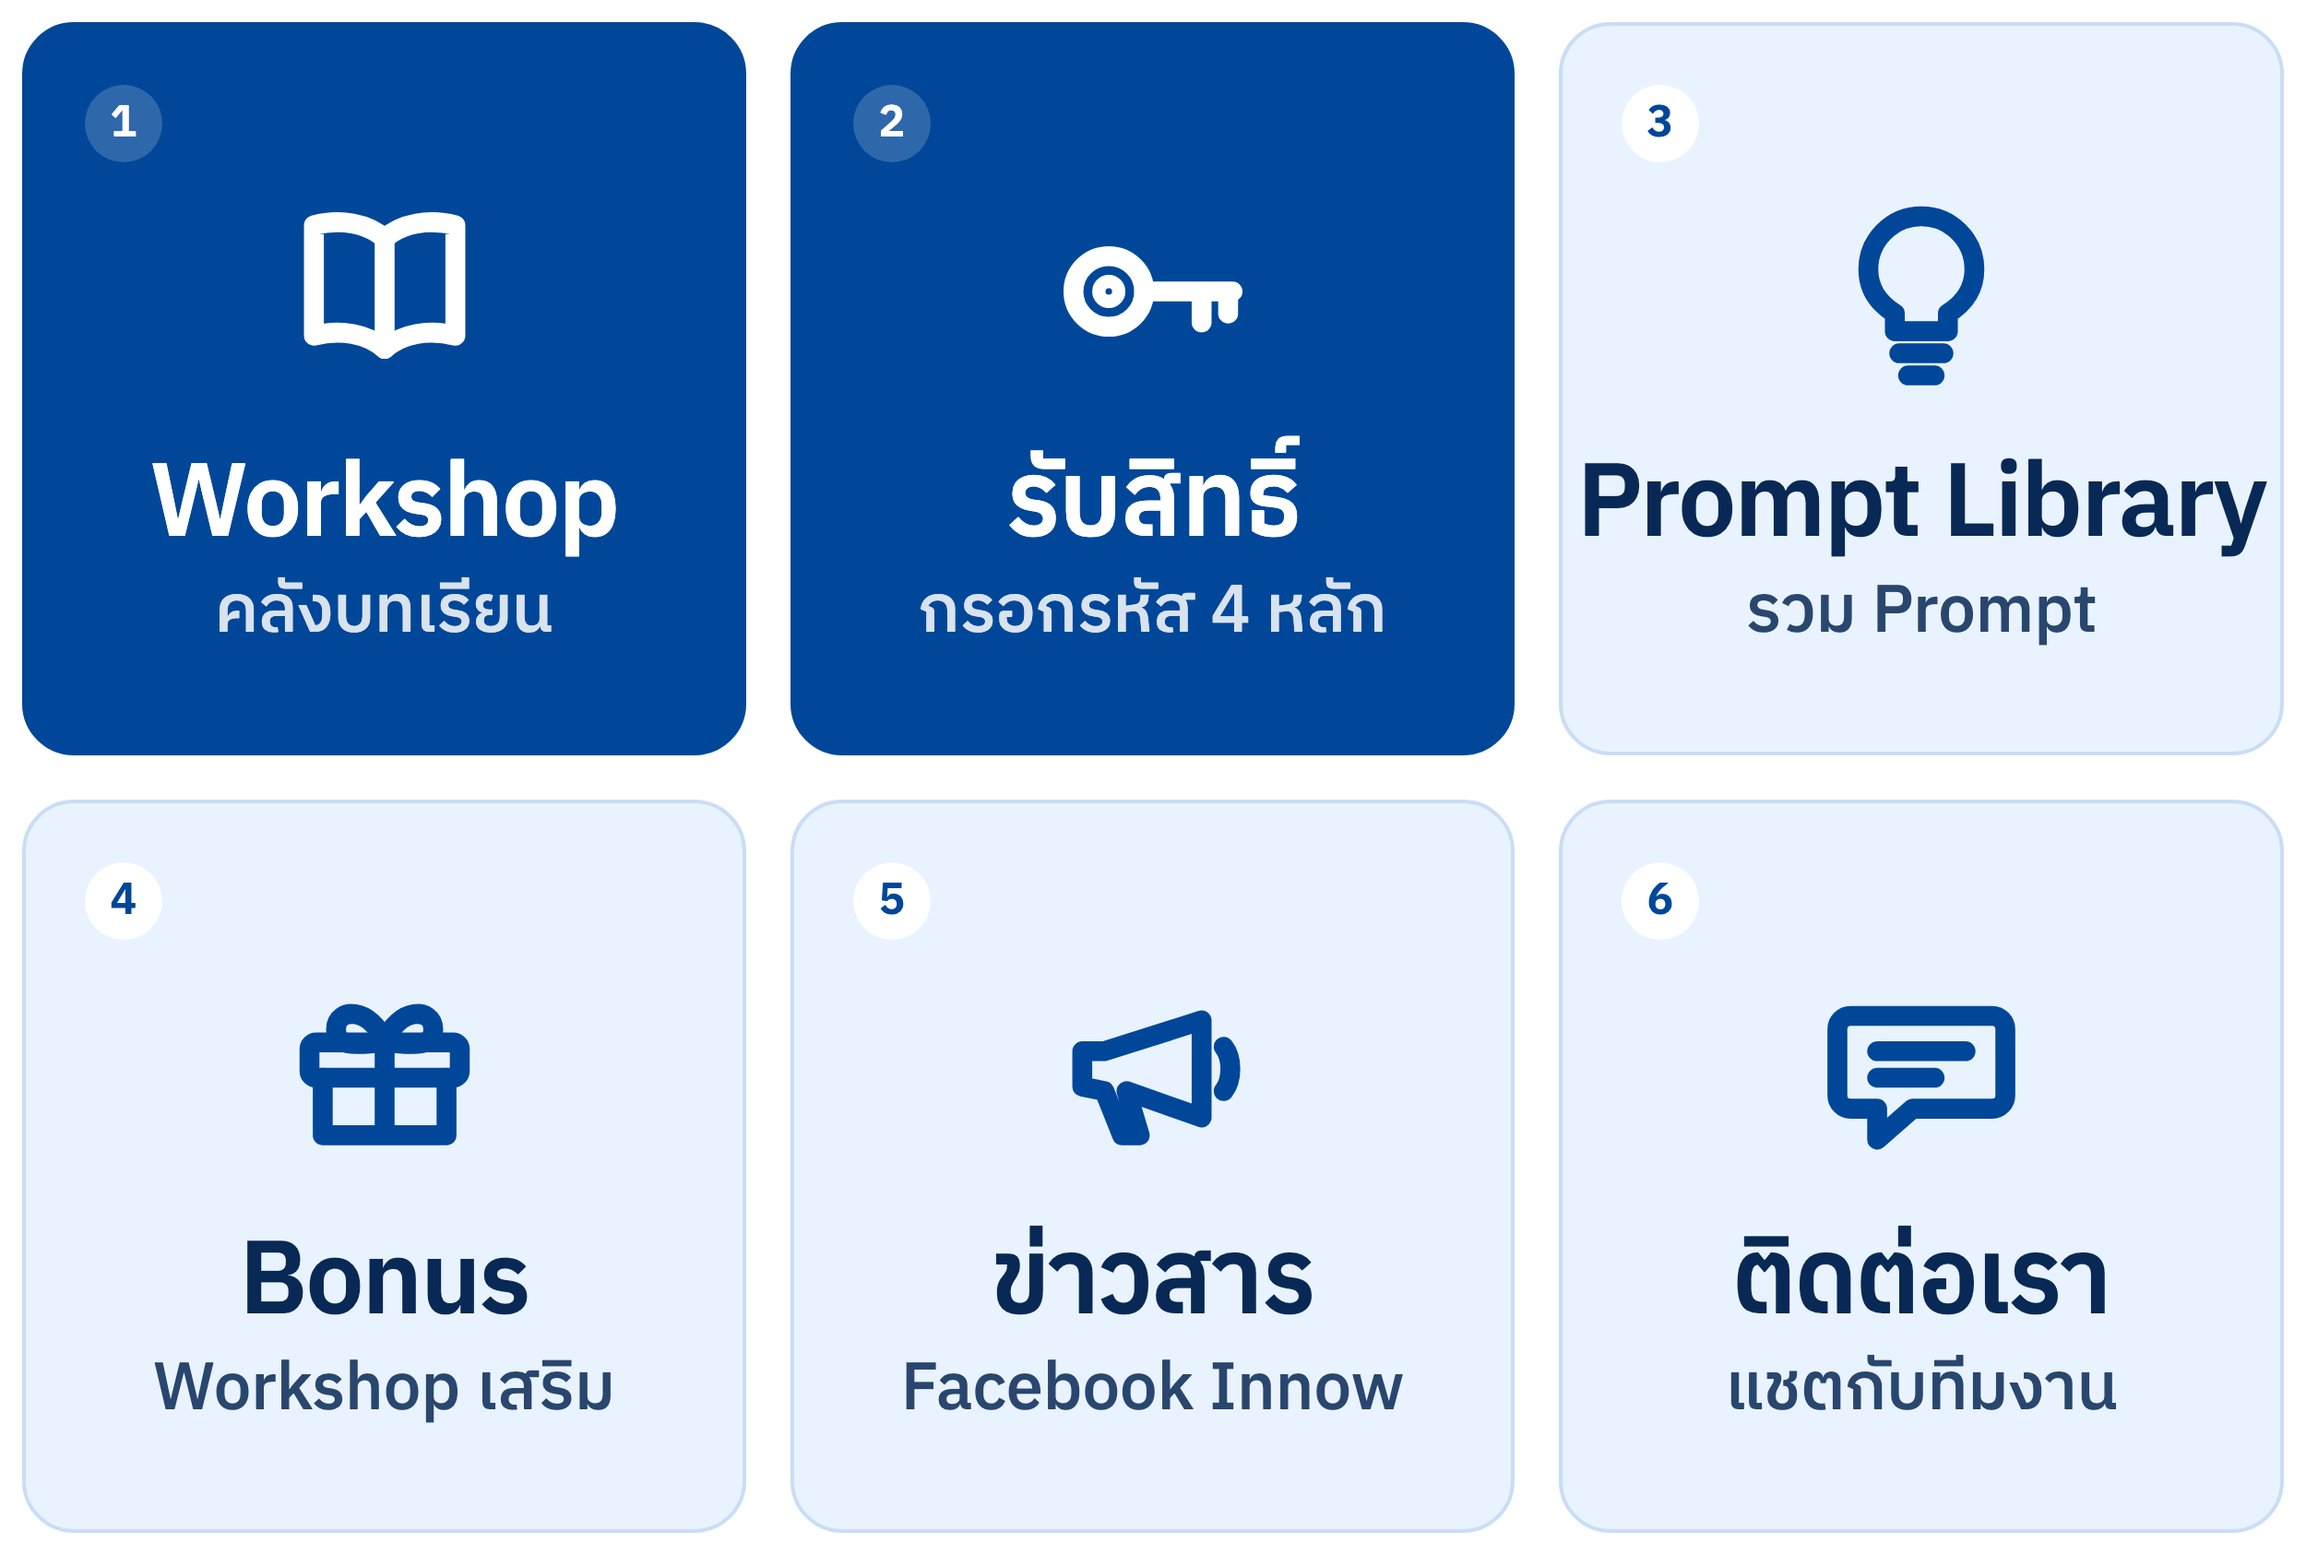
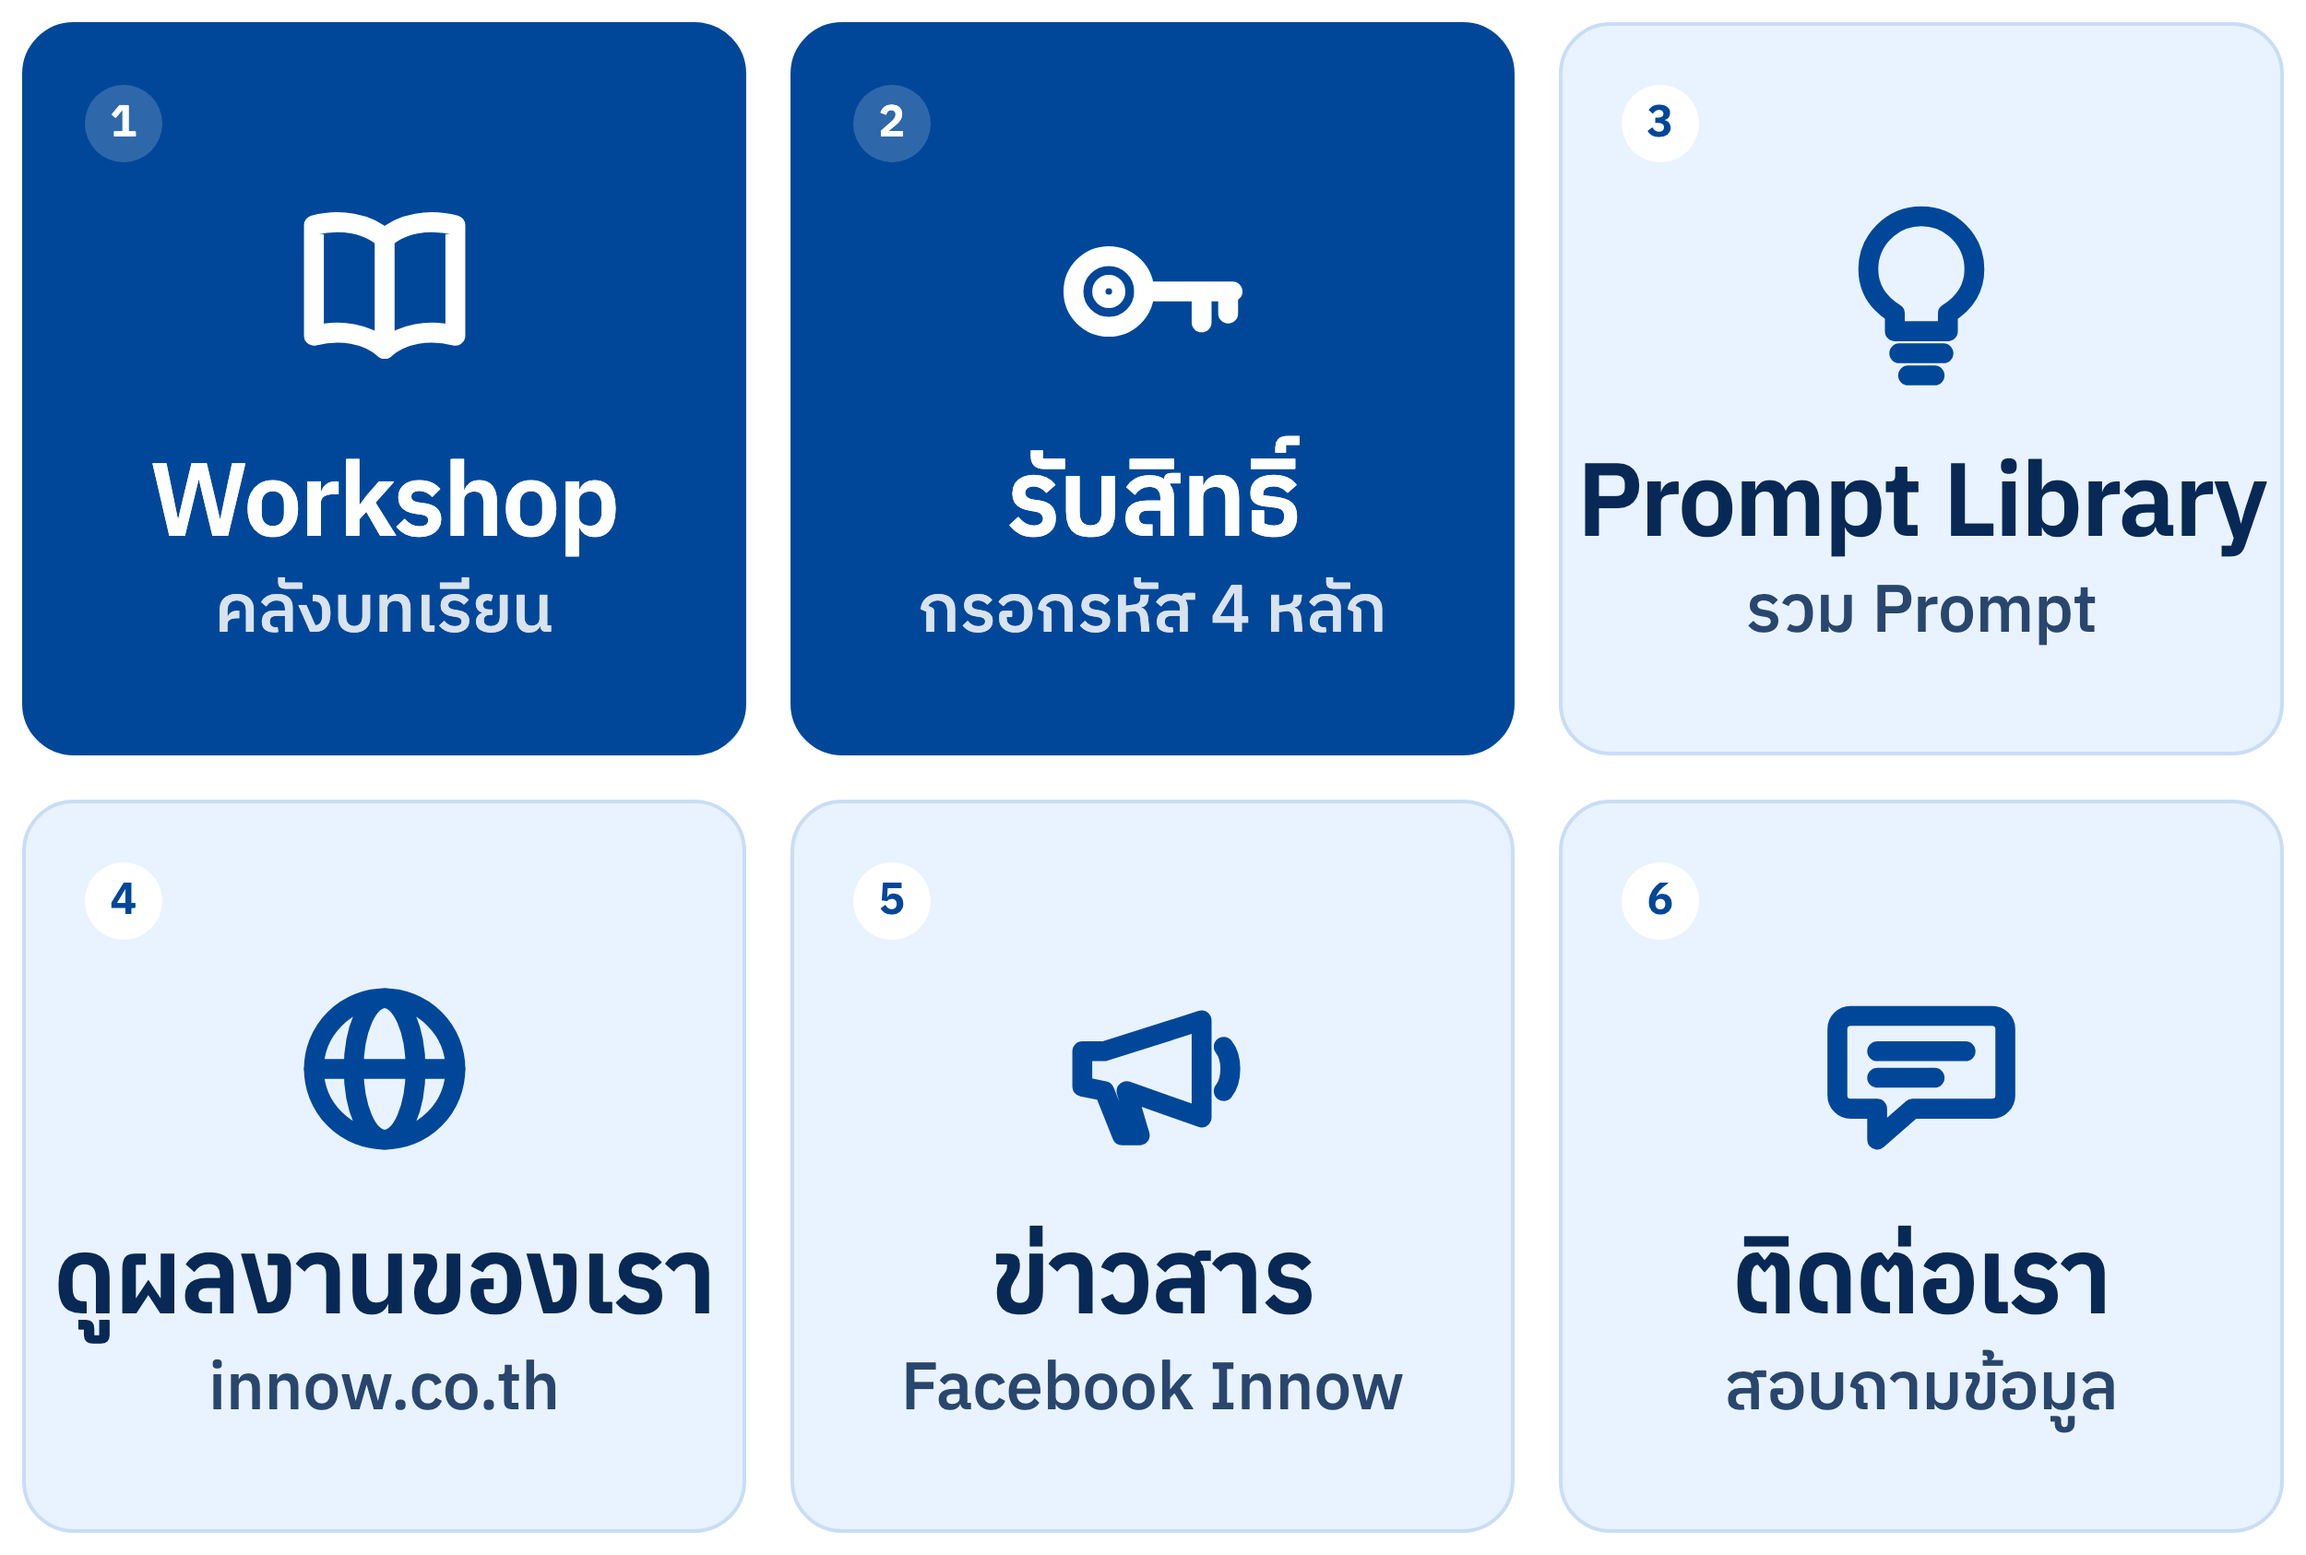
feat: rich menu button 4 opens innow.co.th, button 6 opens contact page; render hardening

Changed region(s): [[0.0, 0.8019, 0.312, 0.9253], [0.7488, 0.8636, 0.9048, 0.9253], [0.1248, 0.6168, 0.2184, 0.7402]]

diff --git a/line-app/richmenu/richmenu.html b/line-app/richmenu/richmenu.html
@@ -43,8 +43,8 @@
   <div class="label">Prompt Library</div><div class="sub">รวม Prompt</div></div></div>
 
 <div class="cell" style="left:0;top:843px;width:833px"><div class="card"><span class="num">4</span>
-  <svg viewBox="0 0 96 96"><rect x="14" y="36" width="68" height="16" rx="3"/><path d="M20 52v26h56V52M48 36v42"/><path d="M48 36c-6-16-22-16-22-6s14 6 22 6zM48 36c6-16 22-16 22-6s-14 6-22 6z"/></svg>
-  <div class="label">Bonus</div><div class="sub">Workshop เสริม</div></div></div>
+  <svg viewBox="0 0 96 96"><circle cx="48" cy="48" r="32"/><ellipse cx="48" cy="48" rx="14" ry="32"/><path d="M16 48h64"/></svg>
+  <div class="label">ดูผลงานของเรา</div><div class="sub">innow.co.th</div></div></div>
 
 <div class="cell" style="left:833px;top:843px;width:833px"><div class="card"><span class="num">5</span>
   <svg viewBox="0 0 96 96"><path d="M16 40v16l10 2 8 20h8L36 58 70 70V26L26 40z"/><path d="M80 38c4 5 4 15 0 20"/></svg>
@@ -52,7 +52,7 @@
 
 <div class="cell" style="left:1666px;top:843px;width:834px"><div class="card"><span class="num">6</span>
   <svg viewBox="0 0 96 96"><path d="M16 24h64a6 6 0 0 1 6 6v30a6 6 0 0 1-6 6H44L28 80V66H16a6 6 0 0 1-6-6V30a6 6 0 0 1 6-6z"/><path d="M28 40h40M28 52h26"/></svg>
-  <div class="label">ติดต่อเรา</div><div class="sub">แชตกับทีมงาน</div></div></div>
+  <div class="label">ติดต่อเรา</div><div class="sub">สอบถามข้อมูล</div></div></div>
 
 </body>
 </html>
